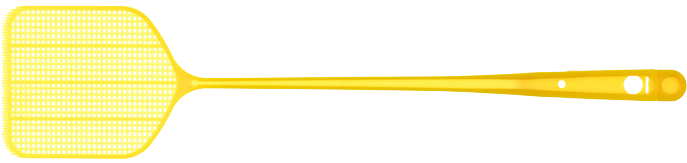
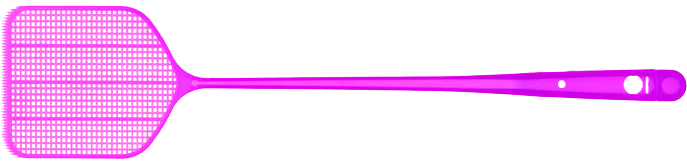
added gold swatter and fixed gold swatter state

Changed region(s): [[0.0, 0.0307, 1.0, 0.9816]]

diff --git a/packages/nextjs/app/game/page.tsx b/packages/nextjs/app/game/page.tsx
@@ -43,9 +43,6 @@ const Game: React.FC = () => {
   // Add this new state to keep track of alive flies
   const [aliveFliesCount, setAliveFliesCount] = useState(0);
 
-  // Add this new state variable for the current swatter type
-  const [currentSwatter, setCurrentSwatter] = useState<SwatterType>('normal');
-
   const [lastCroissantPosition, setLastCroissantPosition] = useState({ x: 0, y: 0 });
 
   const { writeContractAsync: writeGameScoreAsync, isMining } = useScaffoldWriteContract("GameScore");
@@ -57,7 +54,39 @@ const Game: React.FC = () => {
     contractName: "GoldSwatter",
     functionName: "balanceOf",
     args: [connectedAddress],
+    watch: true,
+    query: {
+      enabled: Boolean(connectedAddress),
+      staleTime: Infinity,
+      gcTime: Infinity,
+    }
   });
+
+  // Replace the current swatter state and effects with:
+  const [currentSwatter, setCurrentSwatter] = useState<SwatterType>('normal');
+
+  // Handle localStorage and connection state
+  useEffect(() => {
+    if (!connectedAddress) {
+      setCurrentSwatter('normal');
+      return;
+    }
+
+    const savedSwatter = localStorage.getItem('hasGoldSwatter');
+    if (savedSwatter === 'true') {
+      setCurrentSwatter('gold');
+    }
+  }, [connectedAddress]);
+
+  // Handle blockchain data
+  useEffect(() => {
+    if (!connectedAddress) return;
+
+    if (hasGoldSwatter && BigInt(hasGoldSwatter.toString()) > BigInt(0)) {
+      setCurrentSwatter('gold');
+      localStorage.setItem('hasGoldSwatter', 'true');
+    }
+  }, [connectedAddress, hasGoldSwatter]);
 
   // Add these state variables
   const [lastHitTime, setLastHitTime] = useState(0);
@@ -419,16 +448,7 @@ const Game: React.FC = () => {
     handleClick();
   }, [handleClick]);
 
-  // Add this useEffect to set the swatter type based on the contract read result
-  useEffect(() => {
-    if (hasGoldSwatter && BigInt(hasGoldSwatter.toString()) > BigInt(0)) {
-      setCurrentSwatter('gold');
-    } else {
-      setCurrentSwatter('normal');
-    }
-  }, [hasGoldSwatter]);
-
-  // Modify the resetGame function to include swatter type reset
+  // Remove the swatter check from resetGame - it's now handled by the useEffect above
   const resetGame = useCallback(() => {
     setFlies([]);
     setCroissants([]);
@@ -438,14 +458,8 @@ const Game: React.FC = () => {
     setSpeedMultiplier(1.25);
     setMaxFlies(1);
     setAliveFliesCount(0);
-    // Set the swatter type based on the contract read result
-    if (hasGoldSwatter && BigInt(hasGoldSwatter.toString()) > BigInt(0)) {
-      setCurrentSwatter('gold');
-    } else {
-      setCurrentSwatter('normal');
-    }
     spawnCroissants();
-  }, [spawnCroissants, hasGoldSwatter]);
+  }, [spawnCroissants]);
 
   useEffect(() => {
     resetGame();
@@ -565,8 +579,8 @@ const Game: React.FC = () => {
         </div>
       ))}
       <Image
-        src="/FLY_SWATTER.png"
-        alt="Fly Swatter"
+        src={currentSwatter === 'gold' ? "/GOLD_SWATTER.PNG" : "/FLY_SWATTER.png"}
+        alt={`${currentSwatter === 'gold' ? 'Gold' : 'Normal'} Fly Swatter`}
         width={687}
         height={163}
         className="absolute pointer-events-none transition-transform duration-50"
@@ -598,9 +612,19 @@ const Game: React.FC = () => {
       <div className="absolute bottom-4 right-4 bg-primary text-primary-content px-4 py-2 rounded-full z-10">
         Flies: {aliveFliesCount}/{maxFlies}
       </div>
-      {/* Add this somewhere in your JSX to display the current swatter type */}
+      {/* Modify the swatter type display */}
       <div className="absolute bottom-4 left-4 bg-primary text-primary-content px-4 py-2 rounded-full z-10">
         Swatter: {currentSwatter === 'gold' ? 'Gold' : 'Normal'}
+        {!connectedAddress && (
+          <span className="text-xs block">
+            Connect wallet to use Gold Swatter
+          </span>
+        )}
+        {connectedAddress && currentSwatter === 'normal' && (
+          <span className="text-xs block">
+            Get Gold Swatter NFT to upgrade
+          </span>
+        )}
       </div>
       {/* You might want to add a visual indicator for the gold swatter */}
       {currentSwatter === 'gold' && (

diff --git a/packages/nextjs/app/page.tsx b/packages/nextjs/app/page.tsx
@@ -1,22 +1,40 @@
 "use client";
 
+import { useEffect, useState } from "react";
 import { useRouter } from "next/navigation";
 import type { NextPage } from "next";
 import { useAccount } from "wagmi";
+import { useScaffoldReadContract } from "~~/hooks/scaffold-eth";
 import { RainbowKitCustomConnectButton } from "~~/components/scaffold-eth/RainbowKitCustomConnectButton";
 
 const Home: NextPage = () => {
   const { address: connectedAddress } = useAccount();
   const router = useRouter();
+  const [showGoldMessage, setShowGoldMessage] = useState(false);
+
+  const { data: hasGoldSwatter } = useScaffoldReadContract({
+    contractName: "GoldSwatter",
+    functionName: "balanceOf",
+    args: [connectedAddress],
+    watch: true,
+  });
+
+  useEffect(() => {
+    if (connectedAddress && hasGoldSwatter) {
+      const hasGold = BigInt(hasGoldSwatter.toString()) > BigInt(0);
+      setShowGoldMessage(hasGold);
+    } else {
+      setShowGoldMessage(false);
+    }
+  }, [connectedAddress, hasGoldSwatter]);
 
   const handlePlayAsGuest = () => {
-    router.push("/game"); // Navigate to the game page
+    router.push("/game");
   };
 
-  // Function to get the nickname
   const getNickname = () => {
     if (connectedAddress) {
-      return connectedAddress.slice(-4); // Get last 4 digits of the address
+      return connectedAddress.slice(-4);
     }
     return "Guest";
   };
@@ -30,6 +48,14 @@ const Home: NextPage = () => {
         <div className="flex items-center flex-col flex-grow pt-10">
           <h1 className="text-center text-4xl font-bold mb-4">Smack Mouch</h1>
           <p className="text-center text-lg mb-6">Click or Tap to SMACK all the Mouches and protect your croissants!</p>
+          
+          {/* Gold Swatter Message */}
+          {showGoldMessage && (
+            <div className="bg-yellow-500 text-black px-6 py-3 rounded-lg mb-6 animate-bounce">
+              🎉 You have a Gold Swatter! Double the smacking power! 🎉
+            </div>
+          )}
+
           <div className="flex flex-col space-y-4">
             {!connectedAddress ? (
               <button onClick={handlePlayAsGuest} className="btn btn-primary">

diff --git a/packages/nextjs/components/GoldSwatterMinter.tsx b/packages/nextjs/components/GoldSwatterMinter.tsx
@@ -40,7 +40,7 @@ const GoldSwatterMinter: React.FC<GoldSwatterMinterProps> = ({ price }) => {
         </button>
         <div className="absolute z-10 w-48 p-2 mt-2 text-sm text-white bg-black rounded-lg opacity-0 pointer-events-none group-hover:opacity-100 transition-opacity duration-300 left-1/2 transform -translate-x-1/2">
           <div className="flex items-center mb-2">
-            <Image src="/gold-swatter.png" alt="Gold Swatter" width={30} height={30} className="mr-2" />
+            <Image src="/GOLD_SWATTER.PNG" alt="Gold Swatter" width={30} height={30} className="mr-2" />
             <span className="font-bold">Gold Swatter</span>
           </div>
           <p>{price} ETH</p>
